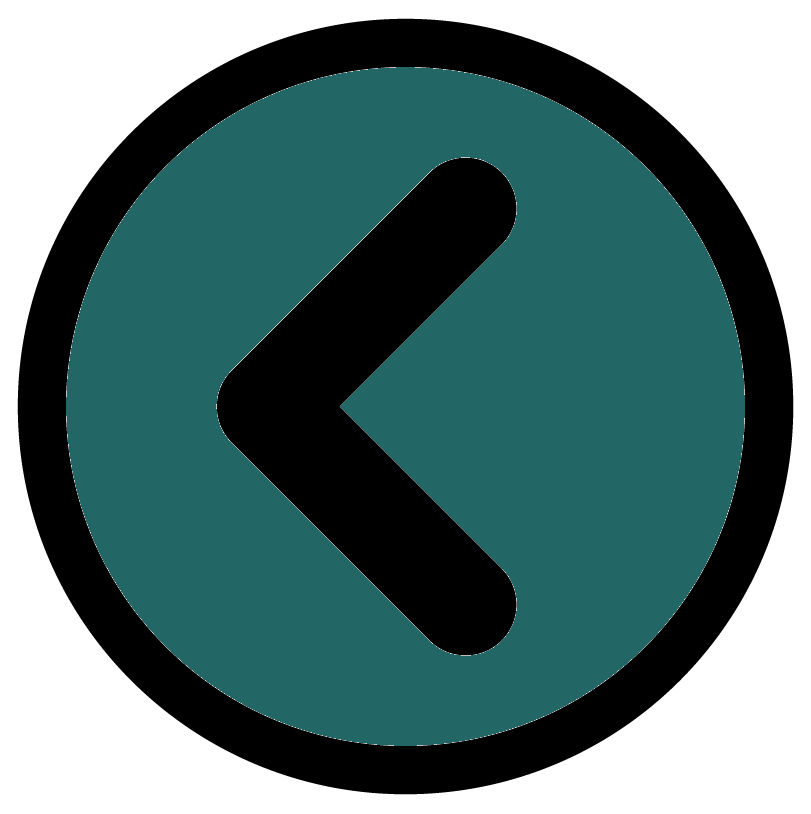
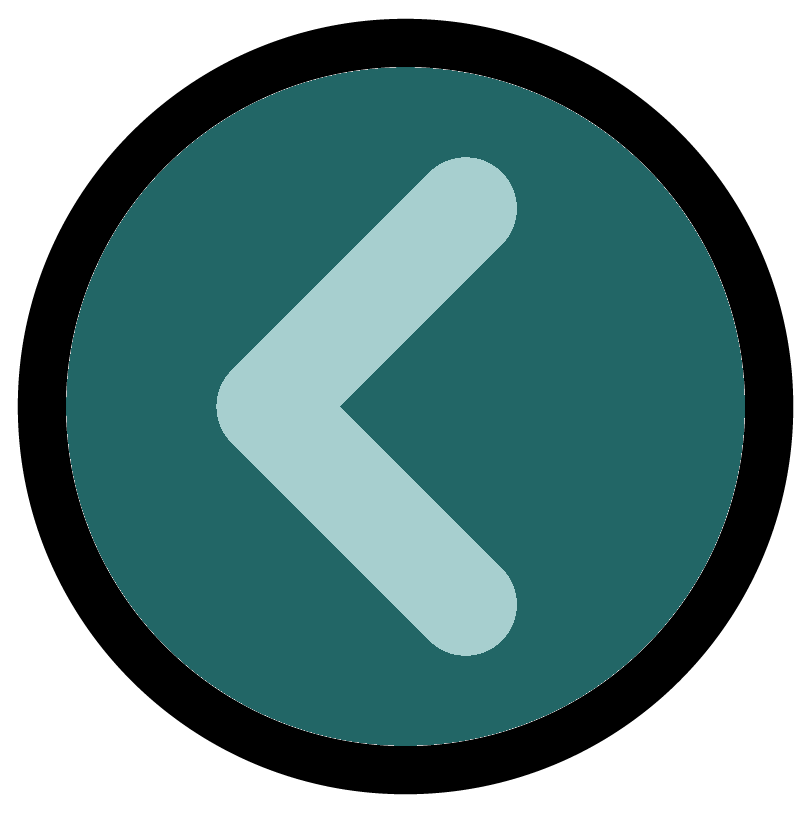
A complete App

Changed region(s): [[0.2466, 0.1843, 0.6473, 0.8292]]

diff --git a/CaptainsLog/BoatExpensesPages/ViewExpensesPage.xaml b/CaptainsLog/BoatExpensesPages/ViewExpensesPage.xaml
@@ -4,10 +4,14 @@
              xmlns:vm="clr-namespace:CaptainsLog.ViewModels"
              xmlns:models="clr-namespace:CaptainsLog.DatabaseClasses.Items"
              xmlns:converters="clr-namespace:CaptainsLog.Converters"
+             xmlns:ios="clr-namespace:Microsoft.Maui.Controls.PlatformConfiguration.iOSSpecific;assembly=Microsoft.Maui.Controls"
              x:Class="CaptainsLog.BoatExpensesPages.ViewExpensesPage"
              Title="View Expenses"
              x:DataType="vm:ExpensesViewModel"
-             x:Name="ViewExpPage">
+             x:Name="ViewExpPage"
+             Shell.NavBarIsVisible="False"
+             ios:Page.UseSafeArea="true"
+             BackgroundColor="#A7CFCF">
     <ContentPage.Resources>
         <ResourceDictionary>
             <converters:DateStringToFormattedDateConverter x:Key="DateStringConverter" />
@@ -16,52 +20,78 @@
 
     <Grid>
         <Grid.RowDefinitions>
-            <RowDefinition Height="Auto"/>
+            <RowDefinition Height="55"/>
+            <RowDefinition Height="20"/>
+            <RowDefinition Height="45"/>
             <RowDefinition Height="1.0*"/>
             <RowDefinition Height="Auto"/>
         </Grid.RowDefinitions>
         <Grid.ColumnDefinitions>
             <ColumnDefinition />
             <ColumnDefinition />
-            <ColumnDefinition Width="0.4*"/>
+            <ColumnDefinition />
         </Grid.ColumnDefinitions>
-        <Picker Grid.Row="0"
+
+        <ImageButton Grid.Row="0" Grid.Column="0" Grid.ColumnSpan="1" 
+             Source="backbutton.png"
+             Command="{Binding BackButtonClickedCommand}"
+             HorizontalOptions="Fill"/>
+
+        <ImageButton Grid.Row="0" Grid.Column="3" Grid.ColumnSpan="1"
+             Source="helpbutton.png"
+             Command="{Binding HelpButtonClickedCommand}"
+             HorizontalOptions="Fill"/>
+
+        <Picker Grid.Row="2"
                 Grid.Column="0"
                 x:Name="TypePicker"
-                Title="Type Filter"
+                Title="Expense"
+                BackgroundColor="White"
+                Margin="4"
                 SelectedItem="{Binding SelectedType}">
             <Picker.ItemsSource>
                 <x:Array Type="{x:Type x:String}">
-                    <x:String>All</x:String>
                     <x:String>Fuel (Petrol/Diesel)</x:String>
                     <x:String>Coal/Logs</x:String>
                     <x:String>Pumpout/Elsan</x:String>
                     <x:String>Gas</x:String>
                     <x:String>Engine Repair</x:String>
                     <x:String>Hull Maintenance</x:String>
+                    <x:String>Groceries</x:String>
                     <x:String>Other</x:String>
                 </x:Array>
             </Picker.ItemsSource>
         </Picker>
-        <Picker Grid.Row="0"
+        <Picker Grid.Row="2"
                 Grid.Column="1"
                 x:Name="MonthPicker"
-                Title="Month Filter"
+                Title="Month"
+                BackgroundColor="White"
+                Margin="4"
                 ItemsSource="{Binding DateDropDownData}"
                 SelectedItem="{Binding SelectedMonth}"/>
 
-        <Button Grid.Row="0"
+        <Button Grid.Row="2"
                 Grid.Column="2"
-                Text="Show"
-                Command="{Binding ApplyFiltersCommand}">
+                Text="Go"
+                Command="{Binding ApplyFiltersCommand}"
+                BackgroundColor="#226666"
+                BorderColor="Black"
+                BorderWidth="3"
+                Margin="6"
+                FontAttributes="Bold">
         </Button>
 
-        <CollectionView Grid.Row="1" Grid.ColumnSpan="3" ItemsSource="{Binding ExpensesItems}" Background="Transparent" >
+        <CollectionView Grid.Row="3" Grid.ColumnSpan="3" ItemsSource="{Binding ExpensesItems}" Background="Transparent" >
             <CollectionView.ItemTemplate>
                 <DataTemplate x:DataType="models:ExpensesItem">
                     <ScrollView>
                         <SwipeView >
-                            <Border Padding="5">
+                            <Border Padding="6"
+                            Stroke="Black"
+                            StrokeThickness="3"
+                            BackgroundColor="White"
+                            Margin="6">
                                 <Grid>
                                     <Grid.RowDefinitions>
                                         <RowDefinition />
@@ -70,21 +100,20 @@
                                         <RowDefinition />
                                     </Grid.RowDefinitions>
                                     <Grid.ColumnDefinitions>
+                                        <ColumnDefinition Width="100"/>
                                         <ColumnDefinition />
-                                        <ColumnDefinition />
-                                        <ColumnDefinition />
+                                        <ColumnDefinition Width="100"/>
                                     </Grid.ColumnDefinitions>
                                     <!--Date-->
                                     <Label Grid.Column="0" Grid.Row="0" Text="Date" FontAttributes="Bold" BackgroundColor="AliceBlue" HorizontalTextAlignment="Center"/>
                                     <Label Grid.Column="0" Grid.Row="1" Text="{Binding ExpenseDate, Converter={StaticResource DateStringConverter}}" HorizontalTextAlignment="Center"/>
                                     <!--Type-->
-                                    <Label Grid.Column="1" Grid.Row="0" Text="Type" BackgroundColor="AliceBlue" HorizontalTextAlignment="Center"/>
+                                    <Label Grid.Column="1" Grid.Row="0" Text="Expense" BackgroundColor="AliceBlue" HorizontalTextAlignment="Center"/>
                                     <Label Grid.Column="1" Grid.Row="1" Text="{Binding ExpenseType}" HorizontalTextAlignment="Center"/>
                                     <!--Amount-->
                                     <Label Grid.Column="2" Grid.Row="0" Text="Amount" FontAttributes="Bold" BackgroundColor="AliceBlue" HorizontalTextAlignment="Center"/>
                                     <Label Grid.Column="2" Grid.Row="1" Text="{Binding Amount}" HorizontalTextAlignment="Center"/>
                                     <!--Note-->
-                                    <Label Grid.Column="0" Grid.Row="2" Grid.ColumnSpan="4" Text="Note" BackgroundColor="AliceBlue" HorizontalTextAlignment="Start"/>
                                     <Label Grid.Column="0" Grid.Row="3" Grid.ColumnSpan="4" Text="{Binding ExpenseDesc}" HorizontalTextAlignment="Start"/>
                                 </Grid>
                             </Border>
@@ -109,11 +138,15 @@
             </CollectionView.ItemTemplate>
         </CollectionView>
 
-        <Button Grid.Row="2"
+        <Button Grid.Row="4"
                 Grid.Column="0"
                 Grid.ColumnSpan="3"
                 x:Name="PDFExporterBtn"
-                Text="Export" 
+                Text="Export"  
+            BackgroundColor="#226666"
+            BorderColor="Black"
+            BorderWidth="3"
+            Margin="5"
                 Command="{Binding ExportAsPDFCommand}"/>
     </Grid>
 

diff --git a/CaptainsLog/JournalPages/JournalPage.xaml b/CaptainsLog/JournalPages/JournalPage.xaml
@@ -4,16 +4,21 @@
              xmlns:vm="clr-namespace:CaptainsLog.ViewModels"
              xmlns:models="clr-namespace:CaptainsLog.DatabaseClasses.Items"  
              xmlns:picker="clr-namespace:Syncfusion.Maui.Picker;assembly=Syncfusion.Maui.Picker"
+             xmlns:ios="clr-namespace:Microsoft.Maui.Controls.PlatformConfiguration.iOSSpecific;assembly=Microsoft.Maui.Controls"
              x:Class="CaptainsLog.JournalPages.JournalPage"
              Title="JournalPage"
              x:DataType="vm:JournalViewModel"
-             x:Name="JournalEditPge">
+             x:Name="JournalEditPge"
+             Shell.NavBarIsVisible="False"
+             ios:Page.UseSafeArea="true"
+             BackgroundColor="#A7CFCF">
 
     <Grid RowDefinitions="*,Auto">
 
         <ScrollView Grid.Row="0">
             <Grid>
                 <Grid.RowDefinitions>
+                    <RowDefinition Height="55"/>
                     <RowDefinition Height="Auto"/>
                     <RowDefinition Height="Auto"/>
                     <RowDefinition Height="Auto"/>
@@ -31,12 +36,23 @@
                     <ColumnDefinition Width="*"/>
                 </Grid.ColumnDefinitions>
 
-                <!-- Profile Image -->
+                <ImageButton Grid.Row="0" Grid.Column="0" Grid.ColumnSpan="1" 
+                             Source="backbutton.png"
+                             Command="{Binding BackButtonClickedCommand}"
+                             HorizontalOptions="Fill"/>
+
+                <ImageButton Grid.Row="0" Grid.Column="3" Grid.ColumnSpan="1"
+                             Source="helpbutton.png"
+                             Command="{Binding HelpButtonClickedCommand}"
+                             HorizontalOptions="Fill"/>
+
+                <!-- Journal Image -->
                 <Image
-                Grid.Row="0" Grid.Column="0" Grid.ColumnSpan="4"
-                x:Name="BoatImage"
+                Grid.Row="1" Grid.Column="0" Grid.ColumnSpan="4"
+                x:Name="JournalImage"
                 HeightRequest="185"
                 Aspect="AspectFit"
+                    Margin="4"
                     Source="{Binding JournalPicturePath}">
                     <Image.GestureRecognizers>
                         <TapGestureRecognizer Command="{Binding PickPhotoCommand}" NumberOfTapsRequired="1" />
@@ -44,7 +60,7 @@
                 </Image>
 
                 <picker:SfDatePicker
-                    Grid.Row="1" Grid.Column="0" Grid.ColumnSpan="4"
+                    Grid.Row="2" Grid.Column="0" Grid.ColumnSpan="4"
                     HeightRequest="150"
                     Format="dd_MMM_yyyy"
                     BackgroundColor="White"
@@ -54,28 +70,34 @@
                     <picker:SfDatePicker.ColumnHeaderView >
                         <picker:DatePickerColumnHeaderView Background="White"/>
                     </picker:SfDatePicker.ColumnHeaderView>
+                    <picker:SfDatePicker.SelectionView >
+                        <picker:PickerSelectionView CornerRadius="10" Stroke="#226666" Padding="10, 5, 10, 5" Background="#226666" />
+                    </picker:SfDatePicker.SelectionView>
                 </picker:SfDatePicker>
 
                 <Entry
-                Grid.Row="2" Grid.Column="0" Grid.ColumnSpan="4"
+                Grid.Row="3" Grid.Column="0" Grid.ColumnSpan="4"
                 x:Name="TitleEntry"
                 Placeholder="Entry Title"
                 FontAttributes="Bold"
                 FontSize="Medium"
                 Margin="0,10,0,0"
+                    BackgroundColor="White"
                 Text="{Binding JournalTitle}"/>
 
                 <Entry
-                Grid.Row="3" Grid.Column="0" Grid.ColumnSpan="4"
+                Grid.Row="4" Grid.Column="0" Grid.ColumnSpan="4"
                 Placeholder="Enter Location"
                 Margin="0,10,0,0"
+                    BackgroundColor="White"
                 Text="{Binding JournalLocation}"/>
 
                 <Entry
-                Grid.Row="4" Grid.Column="0" Grid.ColumnSpan="4"
+                Grid.Row="5" Grid.Column="0" Grid.ColumnSpan="4"
                 VerticalTextAlignment="Start"
                 Placeholder="How was your day?"
                 Margin="0,10,0,0"
+                    BackgroundColor="White"
                 Text="{Binding JournalContent}"/>
             </Grid>
 
@@ -87,12 +109,20 @@
                     Text="SAVE"
                     HorizontalOptions="Fill"
                     VerticalOptions="End" 
-                    Command="{Binding SaveJournalEntryCommand}"/>
+                    Command="{Binding SaveJournalEntryCommand}"
+                    BackgroundColor="#226666"
+                    BorderColor="Black"
+                    BorderWidth="3"
+                    Margin="3"/>
             <Button Grid.Column="1"
                     Text="Next Page"
                     HorizontalOptions="Fill"
                     VerticalOptions="End" 
-                    Command="{Binding OpenJournalEntryPageCommand}"/>
+                    Command="{Binding OpenJournalEntryPageCommand}"
+                    BackgroundColor="#226666"
+                    BorderColor="Black"
+                    BorderWidth="3"
+                    Margin="3"/>
         </Grid>
 
     </Grid>

diff --git a/CaptainsLog/DieselCalculatorPages/DieselLogPage.xaml b/CaptainsLog/DieselCalculatorPages/DieselLogPage.xaml
@@ -45,7 +45,7 @@
         <Picker Grid.Row="2"
            Grid.Column="0"
            x:Name="SortPicker"
-           Title="Sort Filter"
+           Title="Sort"
                 BackgroundColor="White"
                 Margin="4"
                 SelectedItem="{Binding SelectedSort}">
@@ -59,7 +59,7 @@
         <Picker Grid.Row="2"
                 Grid.Column="1"
                 x:Name="MonthPicker"
-                Title="Month Filter"
+                Title="Month"
                 SelectedItem="{Binding SelectedMonth}"
                 ItemsSource="{Binding DateDropDownData}"
                 BackgroundColor="White"

diff --git a/CaptainsLog/ViewModels/JournalViewModel.cs b/CaptainsLog/ViewModels/JournalViewModel.cs
@@ -47,6 +47,35 @@ namespace CaptainsLog.ViewModels
         {
             _journalSQLTools = journalJSONTools;
         }
+
+        [RelayCommand]
+        public async Task OnBackButtonClicked()
+        {
+            var mainWindow = Application.Current?.Windows.Count > 0 ? Application.Current.Windows[0] : null;
+            var navigation = mainWindow?.Page?.Navigation;
+            if (navigation != null)
+            {
+                await navigation.PopAsync();
+            }
+        }
+
+        [RelayCommand]
+        public async Task OnHelpButtonClicked()
+        {
+            // Get the current page safely
+            var page = Microsoft.Maui.Controls.Application.Current?.MainPage;
+
+            // If no page is available, cancel the delete to avoid throwing
+            if (page == null)
+                return;
+
+            // Ask the user to confirm deletion
+            await page.DisplayAlert(
+                "Help",
+                "Add a new page to your journal. Pick a date, select a picture, add some details about your day and press save. Selecting a day with data will let you edit that day.",
+                "Ok");
+            return;
+        }
         [RelayCommand]
         private async Task PickPhotoAsync()
         {

diff --git a/CaptainsLog/ViewModels/ExpensesViewModel.cs b/CaptainsLog/ViewModels/ExpensesViewModel.cs
@@ -55,6 +55,35 @@ namespace CaptainsLog.ViewModels
             selectedMonth = string.Empty;
         }
 
+        [RelayCommand]
+        public static async Task OnBackButtonClicked()
+        {
+            var mainWindow = Application.Current?.Windows.Count > 0 ? Application.Current.Windows[0] : null;
+            var navigation = mainWindow?.Page?.Navigation;
+            if (navigation != null)
+            {
+                await navigation.PopAsync();
+            }
+        }
+
+        [RelayCommand]
+        public static async Task OnHelpButtonClicked()
+        {
+            // Get the current page safely
+            var page = Microsoft.Maui.Controls.Application.Current?.MainPage;
+
+            // If no page is available, cancel the delete to avoid throwing
+            if (page == null)
+                return;
+
+            // Ask the user to confirm deletion
+            await page.DisplayAlert(
+                "Help",
+                "View, filter by month and expense. Swipe left to delete or edit any values.",
+                "Ok");
+            return;
+        }
+
         //Load all expense items from the database
         public async Task LoadExpensesItems()
         {

diff --git a/CaptainsLog/ViewModels/LogViewModel.cs b/CaptainsLog/ViewModels/LogViewModel.cs
@@ -265,7 +265,7 @@ namespace CaptainsLog.ViewModels
             });
         }
 
-            [RelayCommand]
+        [RelayCommand]
         public async Task OnBackButtonClicked()
         {
             var mainWindow = Application.Current?.Windows.Count > 0 ? Application.Current.Windows[0] : null;
